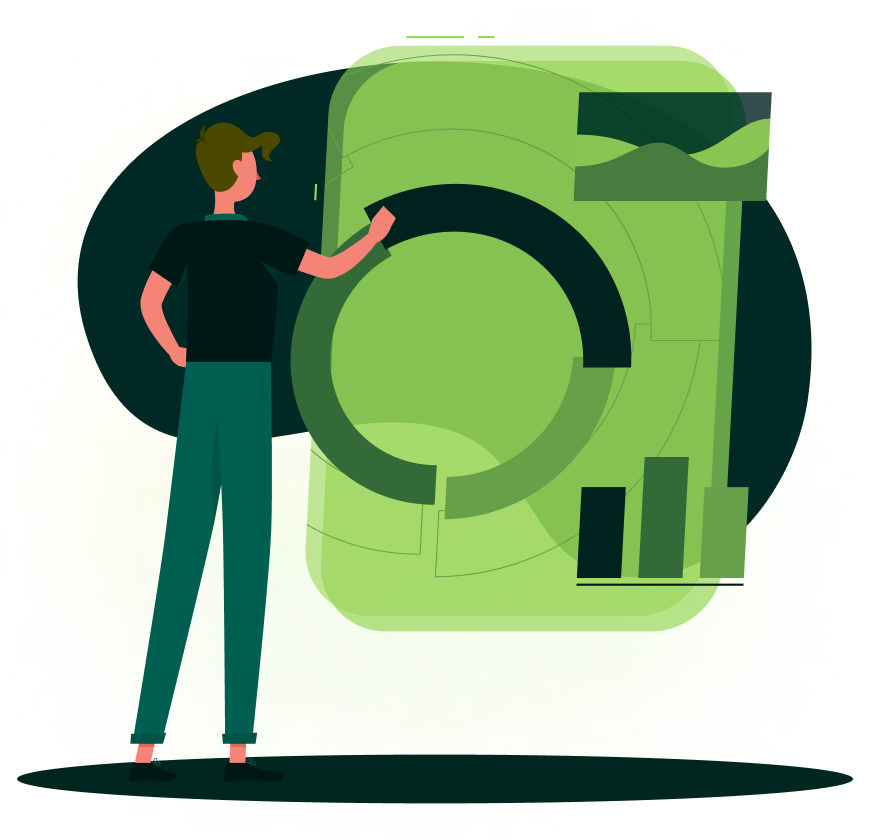
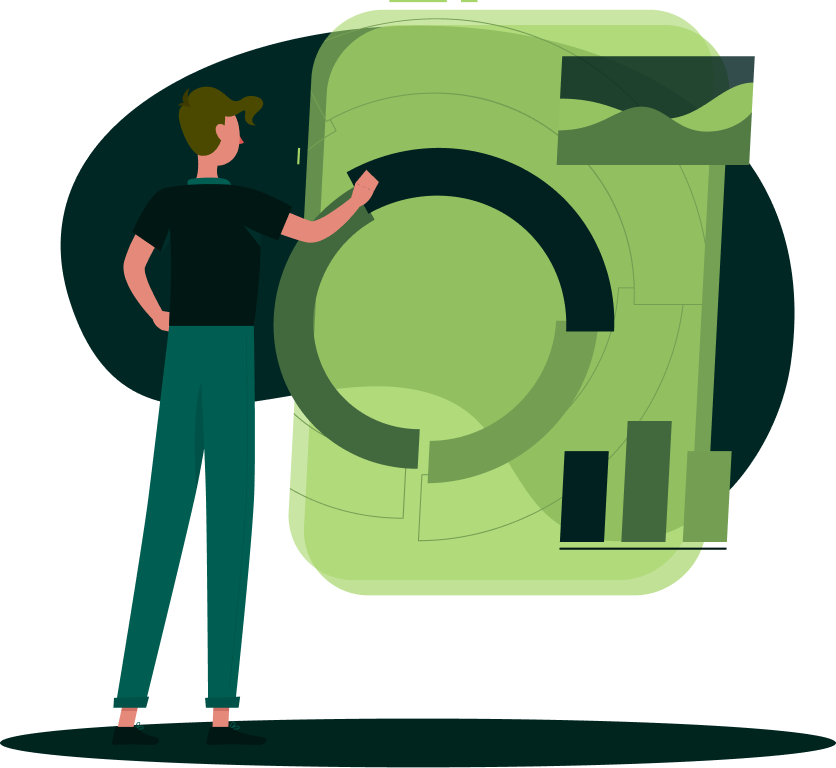
use css filter for image glow

diff --git a/components/MastheadWithImage.tsx b/components/MastheadWithImage.tsx
@@ -47,7 +47,10 @@ const MastheadWithImage = ({
           src={imageSrc}
           alt={imageText}
           width="418px"
-          style={{ objectFit: 'cover' }}
+          style={{
+            objectFit: 'cover',
+            filter: 'drop-shadow(0px 1px 50px rgba(245, 239, 93, 0.24))',
+          }}
         />
       </Box>
     </SectionContainer>
